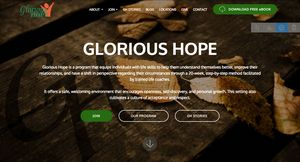
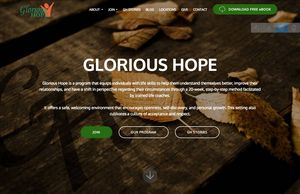
Add files via upload

diff --git a/about-the-program.html b/about-the-program.html
@@ -39,7 +39,7 @@
 <!-- /Google Analytics -->
 
 
-  <section class="menu cid-r1ZFmlHWks" once="menu" id="menu1-4l">
+  <section class="menu cid-r1ZJ6nXNJL" once="menu" id="menu1-4v">
 
     
 
@@ -83,7 +83,7 @@
     </nav>
 </section>
 
-<section class="engine"><a href="https://mobiri.se/k">develop own website</a></section><section class="cid-qYXjL61UwH mbr-fullscreen mbr-parallax-background" id="header2-g">
+<section class="engine"><a href="https://mobiri.se/m">free website design templates</a></section><section class="cid-qYXjL61UwH mbr-fullscreen mbr-parallax-background" id="header2-g">
 
     
 
@@ -142,11 +142,11 @@
                     <div id="bootstrap-toggle" class="toggle-panel accordionStyles tab-content">
                         <div class="card">
                             <div class="card-header" role="tab" id="headingOne">
-                                <a role="button" class="collapsed panel-title text-black" data-toggle="collapse" data-parent="#accordion" data-core="" href="#collapse1_12" aria-expanded="false" aria-controls="collapse1">
+                                <a role="button" class="collapsed panel-title text-black" data-toggle="collapse" data-parent="#accordion" data-core="" href="#collapse1_13" aria-expanded="false" aria-controls="collapse1">
                                     <h4 class="mbr-fonts-style display-5"><p>1. What is Glorious Hope?</p></h4>
                                 </a>
                             </div>
-                            <div id="collapse1_12" class="panel-collapse noScroll collapse" role="tabpanel" aria-labelledby="headingOne">
+                            <div id="collapse1_13" class="panel-collapse noScroll collapse" role="tabpanel" aria-labelledby="headingOne">
                                 <div class="panel-body p-4">
                                     <p class="mbr-fonts-style panel-text display-7">Glorious Hope is a program that helps its participants:<br>•	To identify life issues that are manifestations of deep-seated hurts<br>•	To recognize thoughts and influences that trigger negative behavior<br>•	To uncover and deal with the underlying reasons for habitually repeating actions or behavior</p>
                                 </div>
@@ -154,12 +154,12 @@
                         </div>
                         <div class="card">
                             <div class="card-header" role="tab" id="headingTwo">
-                                <a role="button" class="collapsed panel-title text-black" data-toggle="collapse" data-parent="#accordion" data-core="" href="#collapse2_12" aria-expanded="false" aria-controls="collapse2">
+                                <a role="button" class="collapsed panel-title text-black" data-toggle="collapse" data-parent="#accordion" data-core="" href="#collapse2_13" aria-expanded="false" aria-controls="collapse2">
                                     <h4 class="mbr-fonts-style display-5">2. Who benefit from Glorious Hope?</h4>
                                 </a>
 
                             </div>
-                            <div id="collapse2_12" class="panel-collapse noScroll collapse" role="tabpanel" aria-labelledby="headingTwo">
+                            <div id="collapse2_13" class="panel-collapse noScroll collapse" role="tabpanel" aria-labelledby="headingTwo">
                                 <div class="panel-body p-4">
                                     <p class="mbr-fonts-style panel-text display-7"><strong>Individuals</strong>. You learn to understand yourself and are equipped with life skills that help deal with various life challenges.<br><br><strong>Families</strong>. You learn how to respond to marital conflict, rebellious or delinquent children, and emotional detachment from one another.<br><br><strong>Leaders</strong>. If you are a professional, pastor, full-time church worker, or someone in a leadership position, you get equipped with life coaching and mentoring skills.</p>
                                 </div>
@@ -167,11 +167,11 @@
                         </div>
                         <div class="card">
                             <div class="card-header" role="tab" id="headingThree">
-                                <a role="button" class="collapsed panel-title text-black" data-toggle="collapse" data-parent="#accordion" data-core="" href="#collapse3_12" aria-expanded="false" aria-controls="collapse3">
+                                <a role="button" class="collapsed panel-title text-black" data-toggle="collapse" data-parent="#accordion" data-core="" href="#collapse3_13" aria-expanded="false" aria-controls="collapse3">
                                     <h4 class="mbr-fonts-style display-5">3. What activities can I expect in the Glorious Hope Program?</h4>
                                 </a>
                             </div>
-                            <div id="collapse3_12" class="panel-collapse noScroll collapse" role="tabpanel" aria-labelledby="headingThree">
+                            <div id="collapse3_13" class="panel-collapse noScroll collapse" role="tabpanel" aria-labelledby="headingThree">
                                 <div class="panel-body p-4">
                                     <p class="mbr-fonts-style panel-text display-7"><strong>Step study. Large meeting. Assignment.</strong></p><p>During a step study, the life coach guides the discussion as the participants identify and explore their workbook answers in relation to the particular lesson or step. The life coach also helps the participants take steps toward resolving issues within the program guidelines.<br></p><p>After the step study session, a large meeting is held and the next lesson is presented. This meeting begins with worship songs and is followed by one or two testimonies from former participants.</p><p>At the end of each session, the participants are given time to reflect on the questions and answer the assignments on their workbook. They have the whole week until the next Glorious Hope session to do this. The assignments are carefully designed exercises that explore the participant’s personal life in a non-confrontational manner.</p><p>(Click <a href="http://glorioushope.org.ph/issues" target="_blank">HERE</a> to see the details of the topics mentioned above)</p><p></p><p></p><p></p>
                                 </div>
@@ -179,11 +179,11 @@
                         </div>
                         <div class="card">
                             <div class="card-header" role="tab" id="headingThree">
-                                <a role="button" class="collapsed panel-title text-black" data-toggle="collapse" data-parent="#accordion" data-core="" href="#collapse4_12" aria-expanded="false" aria-controls="collapse4">
+                                <a role="button" class="collapsed panel-title text-black" data-toggle="collapse" data-parent="#accordion" data-core="" href="#collapse4_13" aria-expanded="false" aria-controls="collapse4">
                                     <h4 class="mbr-fonts-style display-5">4. What materials are used in Glorious Hope?</h4>
                                 </a>
                             </div>
-                            <div id="collapse4_12" class="panel-collapse noScroll collapse" role="tabpanel" aria-labelledby="headingThree">
+                            <div id="collapse4_13" class="panel-collapse noScroll collapse" role="tabpanel" aria-labelledby="headingThree">
                                 <div class="panel-body p-4">
                                     <p class="mbr-fonts-style panel-text display-7"><strong>3 Glorious Hope workbooks</strong> — orange, green, and yellow.<br><br>Each workbook has a specific theme and purpose as indicated by their color.</p>
                                 </div>
@@ -191,11 +191,11 @@
                         </div>
                         <div class="card">
                             <div class="card-header" role="tab" id="headingThree">
-                                <a role="button" class="collapsed panel-title text-black" data-toggle="collapse" data-parent="#accordion" data-core="" href="#collapse5_12" aria-expanded="false" aria-controls="collapse5">
+                                <a role="button" class="collapsed panel-title text-black" data-toggle="collapse" data-parent="#accordion" data-core="" href="#collapse5_13" aria-expanded="false" aria-controls="collapse5">
                                     <h4 class="mbr-fonts-style display-5">5. How long is the program?</h4>
                                 </a>
                             </div>
-                            <div id="collapse5_12" class="panel-collapse noScroll collapse" role="tabpanel" aria-labelledby="headingThree">
+                            <div id="collapse5_13" class="panel-collapse noScroll collapse" role="tabpanel" aria-labelledby="headingThree">
                                 <div class="panel-body p-4">
                                     <p class="mbr-fonts-style panel-text display-7">
                                        Usually, 20 days on a weekly schedule.<br><br>Day 1 &nbsp; &nbsp; &nbsp;ORIENTATION<br>Day 2 &nbsp; &nbsp; &nbsp;Lesson 1: Denial and Powerlessness<br>Day 3 &nbsp; &nbsp; &nbsp;Lesson 2: Unmanageability<br>Day 4 &nbsp; &nbsp; &nbsp;Lesson 3: Sanity<br>Day 5 &nbsp; &nbsp; &nbsp;Lesson 4: Hope<br>Day 6 &nbsp; &nbsp; &nbsp;Lesson 5: Decision<br>Day 7 &nbsp; &nbsp; &nbsp;Lesson 6: Action<br>Day 8 &nbsp; &nbsp; &nbsp;Lesson 7: Moral Inventory<br>Day 9 &nbsp; &nbsp; &nbsp;Lesson 8: Resentment<br>Day 10 &nbsp; &nbsp; Lesson 9: Emotions<br>Day 11 &nbsp; &nbsp; &nbsp;Lesson 10: Confess<br>Day 12 &nbsp; &nbsp; Lesson 11: Commitment<br>Day 13 &nbsp; &nbsp; Lesson 12: Discipline<br>Day 14 &nbsp; &nbsp; Lesson 13: Relationship<br>Day 15 &nbsp; &nbsp; Lesson 14: Reconciliation<br>Day 16 &nbsp; &nbsp; Lesson 15: Purpose<br>Day 17 &nbsp; &nbsp; Lesson 16: Priorities<br>Day 18 &nbsp; &nbsp; Lesson 17: Mission<br>Day 19 &nbsp; &nbsp; Last Step Study Session<br>Day 20 &nbsp; &nbsp;THANKSGIVING EVENT<br></p>
@@ -204,11 +204,11 @@
                         </div>
                         <div class="card">
                             <div class="card-header" role="tab" id="headingThree">
-                                <a role="button" class="collapsed panel-title text-black" data-toggle="collapse" data-parent="#accordion" data-core="" href="#collapse6_12" aria-expanded="false" aria-controls="collapse6">
+                                <a role="button" class="collapsed panel-title text-black" data-toggle="collapse" data-parent="#accordion" data-core="" href="#collapse6_13" aria-expanded="false" aria-controls="collapse6">
                                     <h4 class="mbr-fonts-style display-5">6. How much is the fee?</h4>
                                 </a>
                             </div>
-                            <div id="collapse6_12" class="panel-collapse noScroll collapse" role="tabpanel" aria-labelledby="headingThree">
+                            <div id="collapse6_13" class="panel-collapse noScroll collapse" role="tabpanel" aria-labelledby="headingThree">
                                 <div class="panel-body p-4">
                                     <p class="mbr-fonts-style panel-text display-7"><strong>
                                        Attendance, snacks, and drinks are FREE!</strong> Participants do need to pay ₱100 for each workbook. Donations are also welcome. Click <a href="http://glorioushope.org.ph/give">HERE</a> to see instructions on how you can donate to this program.</p>

diff --git a/about-the-ministry.html b/about-the-ministry.html
@@ -39,7 +39,7 @@
 <!-- /Google Analytics -->
 
 
-  <section class="menu cid-r1ZFkspFyT" once="menu" id="menu1-4k">
+  <section class="menu cid-r1ZJ2cQzFb" once="menu" id="menu1-4u">
 
     
 
@@ -67,10 +67,10 @@
                     <a class="nav-link link text-white display-4" href="https://mobirise.com">
                         </a>
                 </li>
-                <li class="nav-item dropdown">
-                    <a class="nav-link link dropdown-toggle text-white display-4" href="http://glorioushope.org.ph/about-the-ministry" data-toggle="dropdown-submenu" aria-expanded="false">
+                <li class="nav-item dropdown open">
+                    <a class="nav-link link dropdown-toggle text-white display-4" href="http://glorioushope.org.ph/about-the-ministry" data-toggle="dropdown-submenu" aria-expanded="true">
                         ABOUT&nbsp;</a><div class="dropdown-menu"><a class="dropdown-item text-white display-4" href="http://glorioushope.org.ph/about-the-ministry">The Ministry</a><a class="dropdown-item text-white display-4" href="http://glorioushope.org.ph/about-the-program">The Program</a><a class="dropdown-item text-white display-4" href="http://glorioushope.org.ph/about-the-program#content5-n">FAQs</a></div>
-                </li><li class="nav-item dropdown open"><a class="nav-link link text-white dropdown-toggle display-4" href="http://glorioushope.org.ph/participate" aria-expanded="true" data-toggle="dropdown-submenu">
+                </li><li class="nav-item dropdown"><a class="nav-link link text-white dropdown-toggle display-4" href="http://glorioushope.org.ph/participate" aria-expanded="false" data-toggle="dropdown-submenu">
                         JOIN</a><div class="dropdown-menu"><a class="text-white dropdown-item display-4" href="http://glorioushope.org.ph/participate" aria-expanded="false">Participate</a><a class="text-white dropdown-item display-4" href="http://glorioushope.org.ph/volunteer" aria-expanded="false">Volunteer</a></div></li><li class="nav-item"><a class="nav-link link text-white display-4" href="http://glorioushope.org.ph/gh-stories" aria-expanded="false">
                         GH STORIES</a></li><li class="nav-item"><a class="nav-link link text-white display-4" href="https://glorioushopeblog.wordpress.com/" aria-expanded="false" target="_blank">
                         BLOG</a></li><li class="nav-item"><a class="nav-link link text-white display-4" href="http://glorioushope.org.ph/locations" aria-expanded="false">
@@ -83,7 +83,7 @@
     </nav>
 </section>
 
-<section class="engine"><a href="https://mobiri.se/s">free bootstrap themes</a></section><section class="cid-qYSXHv6DD5 mbr-fullscreen mbr-parallax-background" id="header2-c">
+<section class="engine"><a href="https://mobiri.se/r">bootstrap templates</a></section><section class="cid-qYSXHv6DD5 mbr-fullscreen mbr-parallax-background" id="header2-c">
 
     
 

diff --git a/index.html b/index.html
@@ -67,10 +67,10 @@
                     <a class="nav-link link text-white display-4" href="https://mobirise.com">
                         </a>
                 </li>
-                <li class="nav-item dropdown">
-                    <a class="nav-link link dropdown-toggle text-white display-4" href="http://glorioushope.org.ph/about-the-ministry" data-toggle="dropdown-submenu" aria-expanded="false">
+                <li class="nav-item dropdown open">
+                    <a class="nav-link link dropdown-toggle text-white display-4" href="http://glorioushope.org.ph/about-the-ministry" data-toggle="dropdown-submenu" aria-expanded="true">
                         ABOUT&nbsp;</a><div class="dropdown-menu"><a class="dropdown-item text-white display-4" href="http://glorioushope.org.ph/about-the-ministry">The Ministry</a><a class="dropdown-item text-white display-4" href="http://glorioushope.org.ph/about-the-program">The Program</a><a class="dropdown-item text-white display-4" href="http://glorioushope.org.ph/about-the-program#content5-n">FAQs</a></div>
-                </li><li class="nav-item dropdown open"><a class="nav-link link text-white dropdown-toggle display-4" href="http://glorioushope.org.ph/participate" aria-expanded="true" data-toggle="dropdown-submenu">
+                </li><li class="nav-item dropdown"><a class="nav-link link text-white dropdown-toggle display-4" href="http://glorioushope.org.ph/participate" aria-expanded="false" data-toggle="dropdown-submenu">
                         JOIN</a><div class="dropdown-menu"><a class="text-white dropdown-item display-4" href="http://glorioushope.org.ph/participate" aria-expanded="false">Participate</a><a class="text-white dropdown-item display-4" href="http://glorioushope.org.ph/volunteer" aria-expanded="false">Volunteer</a></div></li><li class="nav-item"><a class="nav-link link text-white display-4" href="http://glorioushope.org.ph/gh-stories" aria-expanded="false">
                         GH STORIES</a></li><li class="nav-item"><a class="nav-link link text-white display-4" href="https://glorioushopeblog.wordpress.com/" aria-expanded="false" target="_blank">
                         BLOG</a></li><li class="nav-item"><a class="nav-link link text-white display-4" href="http://glorioushope.org.ph/locations" aria-expanded="false">
@@ -83,7 +83,7 @@
     </nav>
 </section>
 
-<section class="engine"><a href="https://mobiri.se/t">free amp templates</a></section><section class="cid-qTkA127IK8 mbr-fullscreen" id="header2-1">
+<section class="engine"><a href="https://mobiri.se/t">amp templates</a></section><section class="cid-qTkA127IK8 mbr-fullscreen" id="header2-1">
 
     
 

diff --git a/contact.html b/contact.html
@@ -39,7 +39,7 @@
 <!-- /Google Analytics -->
 
 
-  <section class="menu cid-r1ZFCSFrkr" once="menu" id="menu1-4t">
+  <section class="menu cid-r1ZJltIlyo" once="menu" id="menu1-53">
 
     
 
@@ -83,7 +83,7 @@
     </nav>
 </section>
 
-<section class="engine"><a href="https://mobiri.se/y">html site templates</a></section><section class="mbr-section form4 cid-r1yS71tWFu" id="form4-2s">
+<section class="engine"><a href="https://mobiri.se/a">online web builder</a></section><section class="mbr-section form4 cid-r1yS71tWFu" id="form4-2s">
 
     
 
@@ -115,7 +115,7 @@
                     <div data-form-alert="" hidden="">
                         Thanks for filling out the form!
                     </div>
[2 lines of base64/hex data omitted]
                         <div class="row">
                             <div class="col-md-6 multi-horizontal" data-for="name">
                                 <input type="text" class="form-control input" name="name" data-form-field="Name" placeholder="Your Name" required="" id="name-form4-2s">

diff --git a/bank-deposit.html b/bank-deposit.html
@@ -40,7 +40,7 @@
 <!-- /Google Analytics -->
 
 
-  <section class="menu cid-r1ZFAXAZHu" once="menu" id="menu1-4s">
+  <section class="menu cid-r1ZJjIF6Kv" once="menu" id="menu1-52">
 
     
 
@@ -84,7 +84,7 @@
     </nav>
 </section>
 
-<section class="engine"><a href="https://mobiri.se/o">portfolio site templates</a></section><section class="cid-r1yMINJe3v mbr-fullscreen" id="header2-2j">
+<section class="engine"><a href="https://mobiri.se/m">free website design templates</a></section><section class="cid-r1yMINJe3v mbr-fullscreen" id="header2-2j">
 
     
 

diff --git a/locations.html b/locations.html
@@ -39,7 +39,7 @@
 <!-- /Google Analytics -->
 
 
-  <section class="menu cid-r1ZFwwRs2A" once="menu" id="menu1-4q">
+  <section class="menu cid-r1ZJgqQNZU" once="menu" id="menu1-50">
 
     
 
@@ -83,7 +83,7 @@
     </nav>
 </section>
 
-<section class="engine"><a href="https://mobiri.se/u">bootstrap website templates</a></section><section class="cid-r1yCHIqqfy mbr-fullscreen" id="header2-24">
+<section class="engine"><a href="https://mobiri.se/j">website templates</a></section><section class="cid-r1yCHIqqfy mbr-fullscreen" id="header2-24">
 
     
 

diff --git a/gh-stories.html b/gh-stories.html
@@ -40,7 +40,7 @@
 <!-- /Google Analytics -->
 
 
-  <section class="menu cid-r1ZFuKKRU8" once="menu" id="menu1-4p">
+  <section class="menu cid-r1ZJeyT5AU" once="menu" id="menu1-4z">
 
     
 
@@ -84,7 +84,7 @@
     </nav>
 </section>
 
-<section class="engine"><a href="https://mobiri.se/d">free web maker</a></section><section class="cid-qZu80IG0Mj mbr-fullscreen" id="header2-1y">
+<section class="engine"><a href="https://mobiri.se/p">web templates free download</a></section><section class="cid-qZu80IG0Mj mbr-fullscreen" id="header2-1y">
 
     
 

diff --git a/give.html b/give.html
@@ -39,7 +39,7 @@
 <!-- /Google Analytics -->
 
 
-  <section class="menu cid-r1ZFzcaMxH" once="menu" id="menu1-4r">
+  <section class="menu cid-r1ZJi4hW3D" once="menu" id="menu1-51">
 
     
 
@@ -83,7 +83,7 @@
     </nav>
 </section>
 
-<section class="engine"><a href="https://mobiri.se/n">free simple website templates</a></section><section class="cid-r1yK7ZIHZU mbr-fullscreen" id="header2-2e">
+<section class="engine"><a href="https://mobiri.se/t">amp template</a></section><section class="cid-r1yK7ZIHZU mbr-fullscreen" id="header2-2e">
 
     
 

diff --git a/participate.html b/participate.html
@@ -39,7 +39,7 @@
 <!-- /Google Analytics -->
 
 
-  <section class="menu cid-r1ZFr46xJd" once="menu" id="menu1-4n">
+  <section class="menu cid-r1ZJa34AXA" once="menu" id="menu1-4x">
 
     
 
@@ -83,7 +83,7 @@
     </nav>
 </section>
 
-<section class="engine"><a href="https://mobiri.se/d">free site maker</a></section><section class="cid-qZqhK9ZobE mbr-fullscreen" id="header2-1m">
+<section class="engine"><a href="https://mobiri.se/w">free html5 templates</a></section><section class="cid-qZqhK9ZobE mbr-fullscreen" id="header2-1m">
 
     
 

diff --git a/volunteer.html b/volunteer.html
@@ -40,7 +40,7 @@
 <!-- /Google Analytics -->
 
 
-  <section class="menu cid-r1ZFsTurG5" once="menu" id="menu1-4o">
+  <section class="menu cid-r1ZJcFjIkV" once="menu" id="menu1-4y">
 
     
 
@@ -84,7 +84,7 @@
     </nav>
 </section>
 
-<section class="engine"><a href="https://mobiri.se/r">bootstrap templates</a></section><section class="cid-qZqpULTNgO mbr-fullscreen" id="header2-1o">
+<section class="engine"><a href="https://mobiri.se/f">easy web builder</a></section><section class="cid-qZqpULTNgO mbr-fullscreen" id="header2-1o">
 
     
 

diff --git a/issues.html b/issues.html
@@ -39,7 +39,7 @@
 <!-- /Google Analytics -->
 
 
-  <section class="menu cid-r1ZFoqLkWC" once="menu" id="menu1-4m">
+  <section class="menu cid-r1ZJ8jSFq4" once="menu" id="menu1-4w">
 
     
 
@@ -83,7 +83,7 @@
     </nav>
 </section>
 
-<section class="engine"><a href="https://mobiri.se/d">free web maker</a></section><section class="header1 cid-qZmb6n4tb4" id="header1-x">
+<section class="engine"><a href="https://mobiri.se/v">free html templates</a></section><section class="header1 cid-qZmb6n4tb4" id="header1-x">
 
     
 
